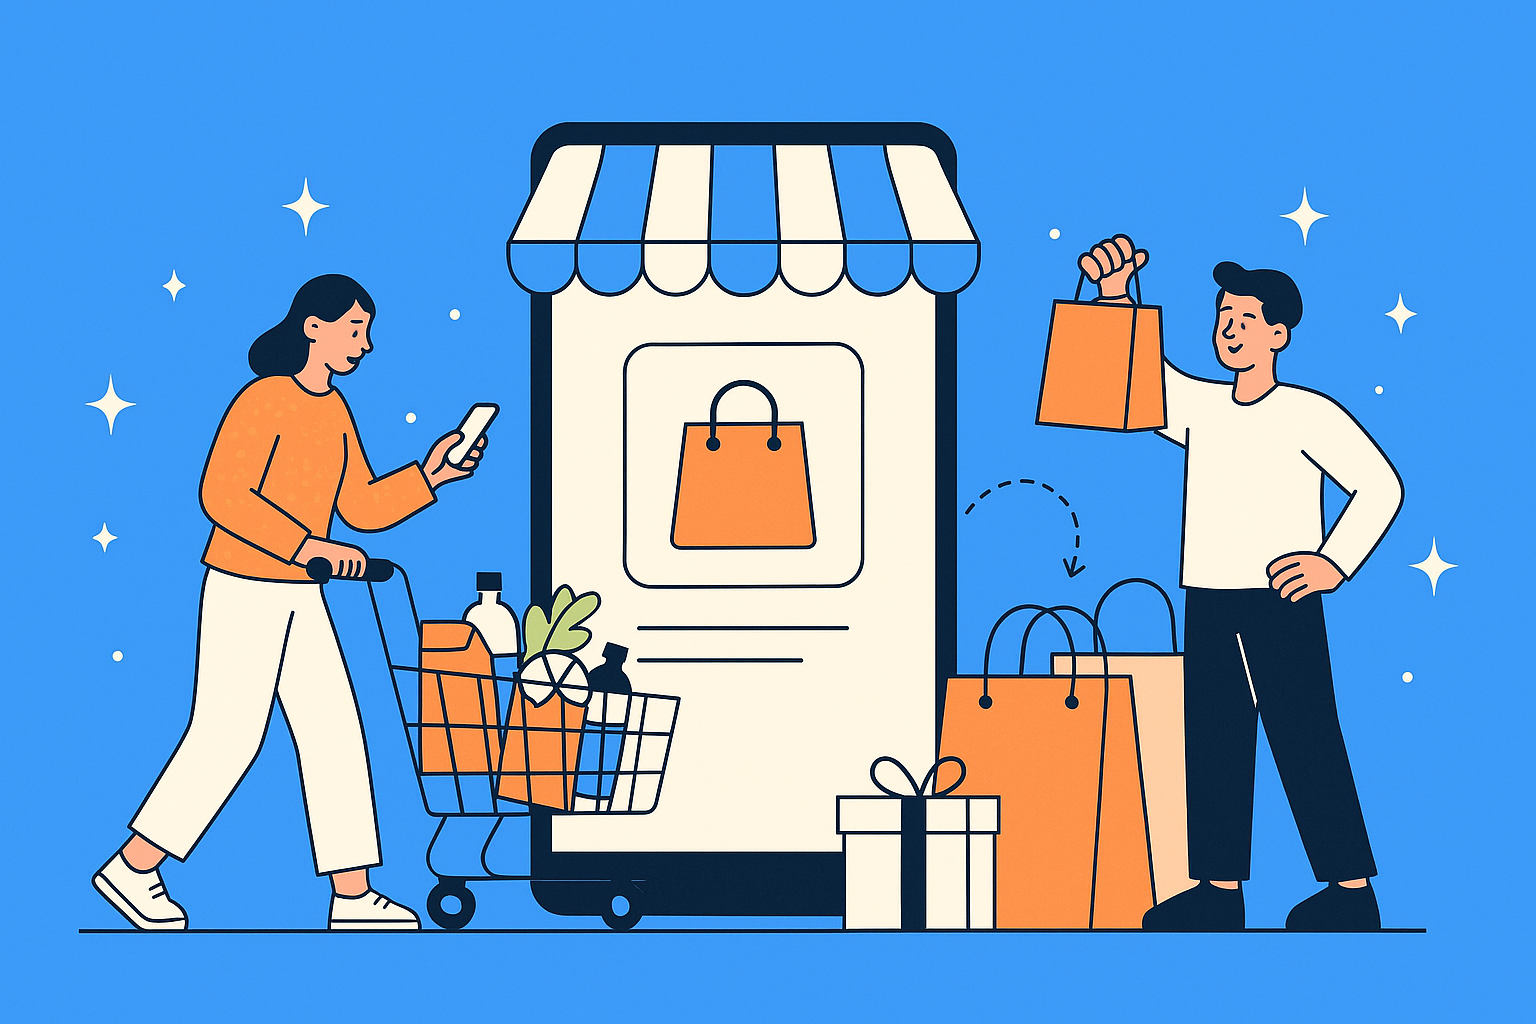
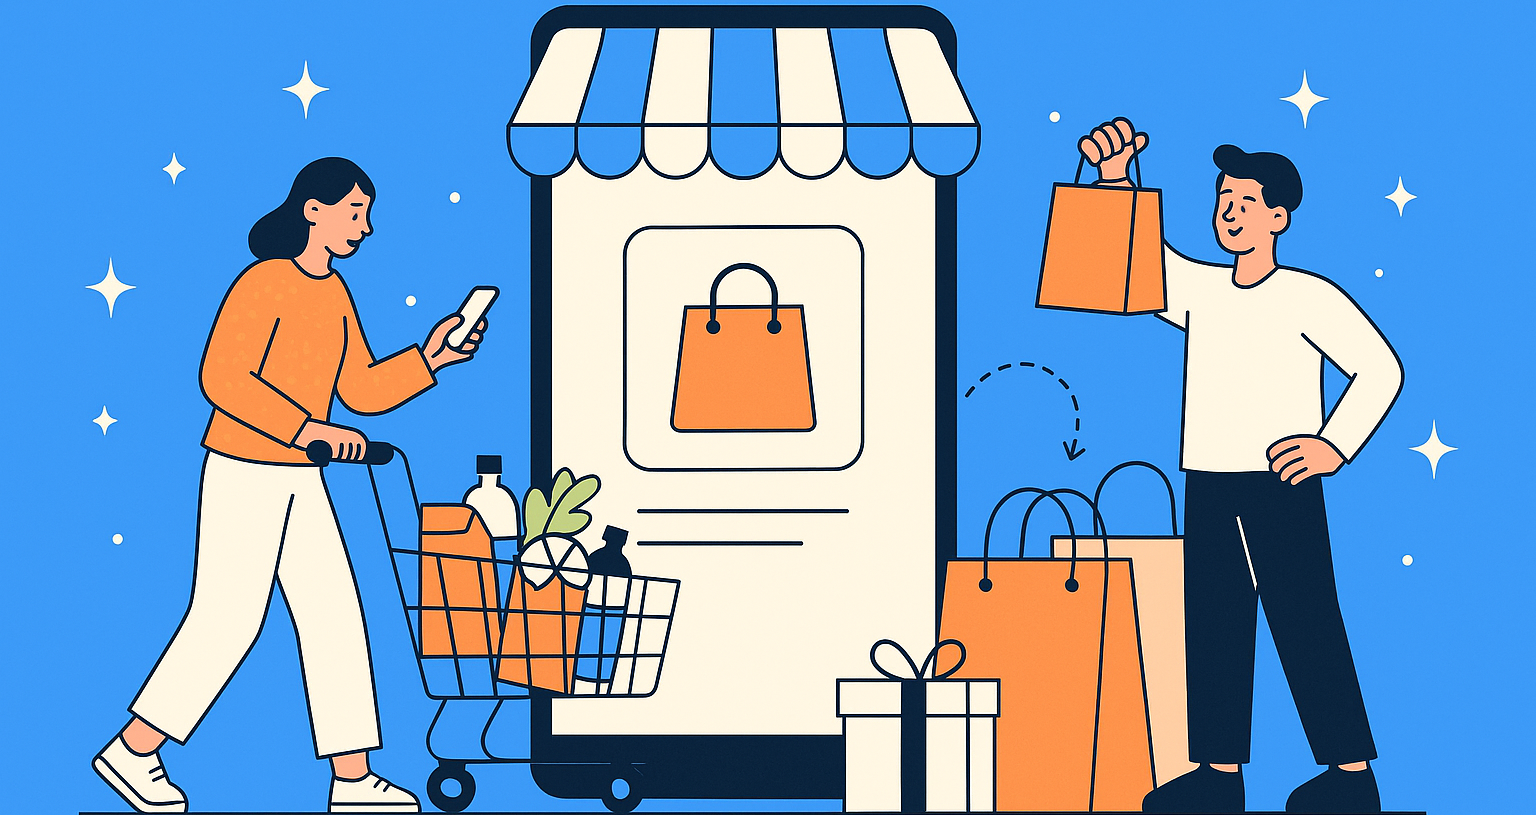
메인 배너, 바로가기 추가

diff --git a/Front/homit/src/pages/mainpage/MainPage.js b/Front/homit/src/pages/mainpage/MainPage.js
@@ -7,8 +7,7 @@ const MainPage = () => {
     return (  
         <Section>
             <div className="main-page">
-                <section className="hero-section">
-                    <div className="hero-image-container">
+                <div className="hero-image-container">
                     <img 
                         src="/img/main_banner.png"
                         alt="웹사이트 홍보 이미지" 
@@ -18,52 +17,104 @@ const MainPage = () => {
                         <h1>Homit에서</h1>
                         <p>생활비를 절약해보세요</p>
                     </div>
-                    </div>
-                </section>
-
-                <section className="menu-section">
-                    <div className="container">
-                    <div className="menu-grid">                     
-                        
-                        <Link to="/board" className="menu-card">
-                        <div className="card-icon">
-                            <div className="icon-board">📋</div>
-                        </div>
-                        <h3>게시판</h3>
-                        <h2>바로가기</h2>
-                        <p>다양한 주제의<br/>게시글을 확인해보세요.</p>
-                        </Link>
-                        
-                        <Link to="/recipe" className="menu-card">
-                        <div className="card-icon">
-                            <div className="icon-recipe">🥕🥬🍯</div>
-                        </div>
-                        <h2>오늘 뭐 먹지?</h2>
-                        <p>생각고 한 재료로 만들 수 있는<br/>요리 추천</p>
-                        </Link>
-
-                        <Link to="/groupbuy" className="menu-card">
-                        <div className="card-icon">
-                            <div className="icon-group">🤝</div>
-                        </div>
-                        <h2>같이 사면</h2>
-                        <h2>싸다</h2>
-                        <p>지금 모집 중인 공동 구매에<br/>참여해보세요.</p>
-                        <div className="cart-icon">🛒</div>
-                        </Link>
-
-                        <Link to="/popular" className="menu-card">
-                        <div className="card-icon">
-                            <div className="icon-hot">🏆⭐</div>
-                        </div>
-                        <h2>인기상품</h2>
-                        <h2>바로가기</h2>
-                        <p>많은 사람들이 인기 있는<br/>상품을 확인해보세요.</p>
-                        </Link>
-                    </div>
-                    </div>
-                </section>
                 </div>
+                    <div className="container">
+                        <div className="menu-grid">                     
+                            <Link to="/board" className="menu-card">
+                            <div className="card-icon">
+                                <div className="icon-board">📋</div>
+                            </div>
+                            <h2>게시판</h2>
+                            <h2>바로가기</h2>
+                            <p>다양한 주제의<br/>게시글을 확인해보세요.</p>
+                            </Link>
+                            
+                            <Link to="/recipe" className="menu-card">
+                            <div className="card-icon">
+                                <div className="icon-recipe">🥕🥬🍯</div>
+                            </div>
+                            <h2>오늘 뭐 먹지?</h2>
+                            <p>생각고 한 재료로 만들 수 있는<br/>요리 추천</p>
+                            </Link>
+
+                            <Link to="/groupbuy" className="menu-card">
+                            <div className="card-icon">
+                                <div className="icon-group">🤝🛒</div>
+                            </div>
+                            <h2>같이 사면</h2>
+                            <h2>싸다</h2>
+                            <p>지금 모집 중인 공동 구매에<br/>참여해보세요.</p>
+                            </Link>
+
+                            <Link to="/popular" className="menu-card">
+                            <div className="card-icon">
+                                <div className="icon-hot">🏆⭐</div>
+                            </div>
+                            <h2>인기상품</h2>
+                            <h2>바로가기</h2>
+                            <p>많은 사람들이 인기 있는<br/>상품을 확인해보세요.</p>
+                            </Link>
+                        </div>
+                    </div>
+                </div>
+                {/* 공구 인플루언서 섹션 */}
+                    <div className="section-container">
+                        <div className="section-header">
+                            <h2 className="section-title">공구 인플루언서를 만나보세요 🔥</h2>
+                        </div>
+                        <div className="influencer-grid">
+                            {[1, 2, 3, 4, 5].map(i => (
+                                <div key={i} className="influencer-card">
+                                    <div className="influencer-avatar">
+                                        <div className="avatar-circle">👤</div>
+                                    </div>
+                                </div>
+                            ))}
+                        </div>
+                    </div>
+
+                    {/* 오늘의 상품 섹션 */}
+                    <div className="section-container">
+                        <div className="section-header">
+                            <h2 className="section-title">오늘의 상품 🔥</h2>
+                        </div>
+                        <div className="product-grid">
+                            {[1, 2, 3, 4].map(i => (
+                                <div key={i} className="product-card">
+                                    <div className="product-image"></div>
+                                </div>
+                            ))}
+                        </div>
+                    </div>
+
+                    {/* 공동구매 마감임박 섹션 */}
+                    <div className="section-container">
+                        <div className="section-header">
+                            <h2 className="section-title">공동구매 마감임박 ⏰</h2>
+                        </div>
+                        <div className="product-grid">
+                            {[1, 2, 3, 4].map(i => (
+                                <div key={i} className="product-card">
+                                    <div className="product-image"></div>
+                                </div>
+                            ))}
+                        </div>
+                    </div>
+
+                    {/* 저주 본 상품 섹션 */}
+                    <div className="section-container">
+                        <div className="section-header">
+                            <h2 className="section-title">저주 본 상품</h2>
+                        </div>
+                        <div className="product-grid">
+                            {[1, 2, 3, 4].map(i => (
+                                <div key={i} className="product-card">
+                                    <div className="product-image"></div>
+                                </div>
+                            ))}
+                        </div>
+                    </div>
+                
         </Section>
         
     )

diff --git a/Front/homit/src/pages/mainpage/MainPage.css b/Front/homit/src/pages/mainpage/MainPage.css
@@ -1,12 +1,16 @@
 /* 배너 섹션 */
+.hero-section {
+  width: 100%;
+  margin-bottom: 40px;
+}
+
 .hero-image-container {
   position: relative;
-  width: 100%;
-  height: 350px;
+  width: 1200px;
+  height: 400px;
   border-radius: 12px;
   overflow: hidden;
-  margin: 0 auto;
-  
+  margin: auto;
 }
 
 .hero-image {
@@ -19,8 +23,8 @@
   position: absolute;
   top: 0;
   left: 0;
-  width: 1600px;
-  height: 300px;
+  width: 100%;
+  height: 100%;
   background: linear-gradient(135deg, rgba(0,0,0,0.6) 0%, rgba(0,0,0,0.3) 100%);
   display: flex;
   flex-direction: column;
@@ -42,19 +46,16 @@
 }
 
 /* 메뉴 섹션 */
-.menu-section {
-  padding: 20px;
-}
 
 .container {
-  max-width: 600px;
+  max-width: 700px;
   margin: 0 auto;
 }
 
 .menu-grid {
   display: grid;
   grid-template-columns: repeat(auto-fit, minmax(280px, 1fr));
-  gap: 20px;
+  gap: 80px;
   padding: 20px 0;
 }
 
@@ -63,15 +64,10 @@
   border-radius: 16px;
   padding: 30px 25px;
   text-decoration: none;
-  color: inherit;
-  transition: all 0.3s ease;
-  position: relative;
-  overflow: hidden;
-  min-height: 200px;
   display: flex;
   flex-direction: column;
   justify-content: space-between;
-  margin: 20px;
+
 }
 
 .card-icon {
@@ -145,6 +141,115 @@
   right: 20px;
   font-size: 1.5rem;
   opacity: 0.3;
+}
+
+/* 섹션 컨테이너 */
+.section-container {
+  margin: 60px 0;
+  padding: 0 20px;
+}
+
+.section-header {
+  margin-bottom: 30px;
+}
+
+.section-title {
+  font-size: 1.5rem;
+  font-weight: bold;
+  color: #333;
+  margin: 0;
+  text-align: left;
+}
+
+/* 인플루언서 그리드 */
+.influencer-grid {
+  display: flex;
+  gap: 20px;
+  overflow-x: auto;
+  padding: 10px 0;
+}
+
+.influencer-card {
+  flex: 0 0 auto;
+  display: flex;
+  flex-direction: column;
+  align-items: center;
+  min-width: 80px;
+}
+
+.influencer-avatar {
+  margin-bottom: 10px;
+}
+
+.avatar-circle {
+  width: 60px;
+  height: 60px;
+  border-radius: 50%;
+  border: 2px solid #ddd;
+  display: flex;
+  align-items: center;
+  justify-content: center;
+  font-size: 24px;
+  background-color: #f8f9fa;
+}
+
+/* 상품 그리드 */
+.product-grid {
+  display: grid;
+  grid-template-columns: repeat(auto-fit, minmax(150px, 1fr));
+  gap: 20px;
+  margin-top: 20px;
+}
+
+.product-card {
+  background: white;
+  border-radius: 12px;
+  overflow: hidden;
+  box-shadow: 0 2px 8px rgba(0, 0, 0, 0.1);
+  transition: transform 0.3s ease, box-shadow 0.3s ease;
+}
+
+.product-card:hover {
+  transform: translateY(-4px);
+  box-shadow: 0 4px 16px rgba(0, 0, 0, 0.15);
+}
+
+.product-image {
+  width: 100%;
+  height: 120px;
+  background-color: #f0f0f0;
+  border-bottom: 1px solid #eee;
+  display: flex;
+  align-items: center;
+  justify-content: center;
+  color: #999;
+  font-size: 14px;
+}
+
+/* 반응형 디자인 */
+@media (max-width: 768px) {
+  .influencer-grid {
+    gap: 15px;
+  }
+  
+  .avatar-circle {
+    width: 50px;
+    height: 50px;
+    font-size: 20px;
+  }
+  
+  .product-grid {
+    grid-template-columns: repeat(auto-fit, minmax(120px, 1fr));
+    gap: 15px;
+  }
+  
+  .product-image {
+    height: 100px;
+  }
+  
+  .section-title {
+    font-size: 1.3rem;
+  }
 }
 
 /* 반응형 디자인 */
